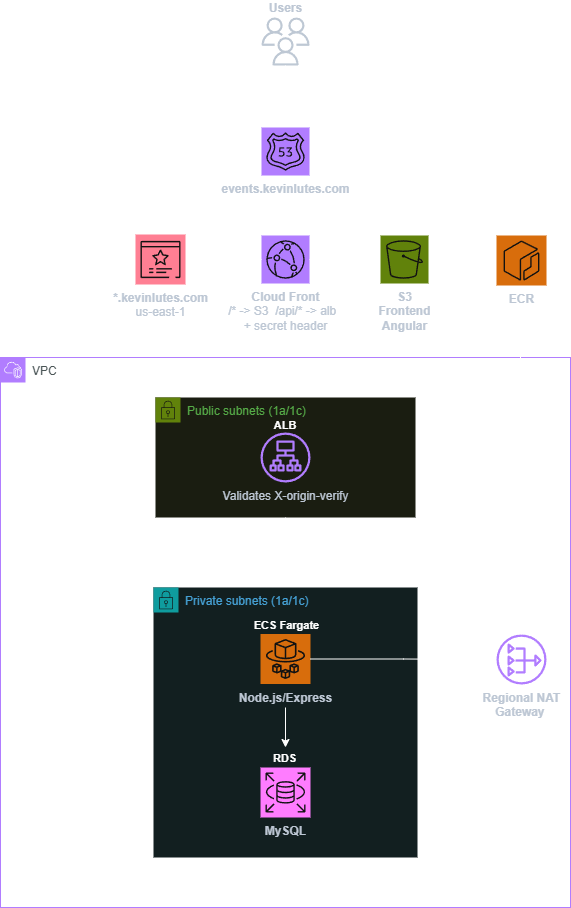
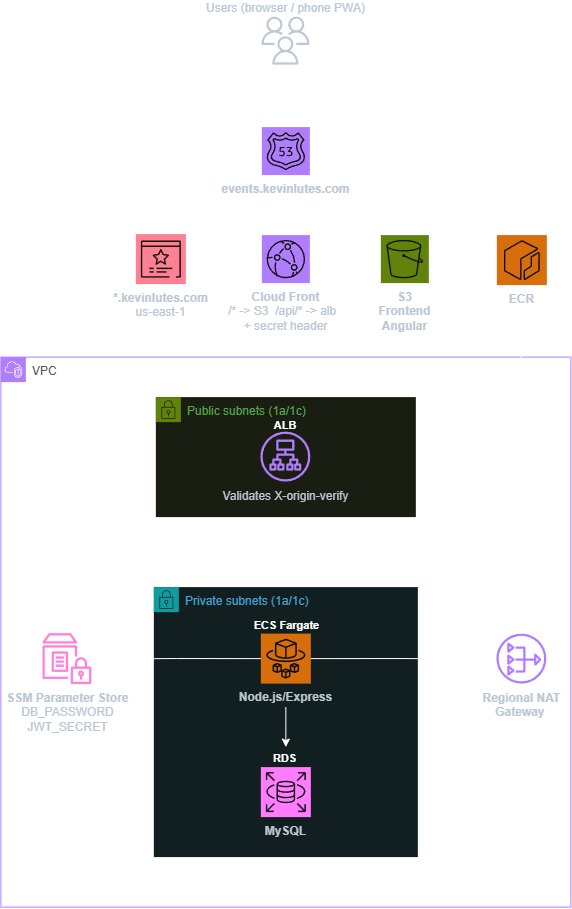
Update README for Part 2: JWT auth, ROI tracking, UI redesign, PWA, security hardening

diff --git a/README.md b/README.md
@@ -3,6 +3,24 @@
 A full-stack application for tracking event tickets and client assignments. It models the kind of client-entertainment ticketing workflow used by companies that manage live event inventory and hospitality at scale.
 
 **Live demo:** https://events.kevinlutes.com
+**Demo login:** `eventtickets` / `password`
+
+---
+
+## 📈 Before → After
+
+The app went through two builds. Part 1 proved out the AWS infrastructure and a basic working create/read/update workflow behind a shared API key. Part 2 rebuilt the application layer into something closer to a real internal SaaS tool — per-user auth, a reporting layer, and a full UI redesign.
+
+| | Part 1: Initial Build | Part 2: Production-Grade SaaS |
+|---|---|---|
+| **UI** | Single-page form, no navigation | Sidebar-navigated app: dashboard, tickets, clients, events, reports, settings |
+| **Auth** | Shared `X-API-Key` header | Per-user JWT login, bcrypt-hashed passwords, role-based authorization |
+| **Data** | Events, clients, tickets | + ROI tracking (spend by client, spend over time, avg ticket value) |
+| **Frontend** | Plain HTML/CSS | Angular Material, responsive (mobile hamburger nav), installable PWA |
+| **Infra security** | RDS unencrypted, single IAM role, plaintext env secrets | RDS encrypted at rest, split IAM roles, secrets in SSM Parameter Store |
+
+![Before: Initial build](screenshots/before-mvp.png)
+![After: SaaS redesign](screenshots/after-dashboard.png)
 
 ---
 
@@ -10,12 +28,13 @@ A full-stack application for tracking event tickets and client assignments. It m
 
 ![Architecture Diagram](screenshots/architecture.png)
 
-- **Frontend:** Angular (standalone components, `@for` control flow), served from S3 via CloudFront
+- **Frontend:** Angular (standalone components, Angular Material), served from S3 via CloudFront, installable as a PWA
 - **Backend:** Node.js + Express REST API, containerized and running on ECS Fargate behind an Application Load Balancer
-- **Database:** MySQL on RDS, in a private subnet with no public access
-- **Networking:** Custom VPC with public/private subnets, NAT Gateway for outbound access from private resources
-- **Security:** CloudFront attaches a secret `X-Origin-Verify` header on every request to the ALB, and the ALB rejects any request without it, preventing traffic from bypassing CloudFront and hitting the load balancer directly. At the application layer, every `/api` route requires an `X-API-Key` header, requests are rate-limited per IP, and CORS is restricted to the live frontend origin
-- **Infrastructure as Code:** Entire stack defined in Terraform (VPC, RDS, ECS, ALB, ECR, S3, CloudFront, ACM, Route 53)
+- **Database:** MySQL on RDS, encrypted at rest, in a private subnet with no public access
+- **Networking:** Custom VPC with public/private subnets. I put RDS and ECS in private subnets with no inbound route from the internet, and added a NAT Gateway purely so the API container can still reach out (npm registry, AWS APIs) without ever being reachable from outside
+- **Security:** CloudFront attaches a secret `X-Origin-Verify` header on every request to the ALB, and the ALB rejects any request without it, preventing traffic from bypassing CloudFront and hitting the load balancer directly. At the application layer, every `/api` route requires a signed JWT issued at login, mutating routes are further restricted by role, requests are rate-limited per IP, and CORS is restricted to the live frontend origin
+- **Secrets:** Database credentials and the JWT signing secret are stored in SSM Parameter Store and resolved into the ECS task at container start, never written into the task definition as plaintext
+- **Infrastructure as Code:** Entire stack defined in Terraform (VPC, RDS, ECS, ALB, ECR, S3, CloudFront, ACM, Route 53, IAM, SSM)
 
 ---
 
@@ -23,11 +42,13 @@ A full-stack application for tracking event tickets and client assignments. It m
 
 | Layer | Technology |
 |---|---|
-| Frontend | Angular, TypeScript |
+| Frontend | Angular, TypeScript, Angular Material |
 | Backend | Node.js, Express |
-| Database | MySQL (Amazon RDS) |
+| Auth | JWT (jsonwebtoken), bcrypt |
+| Database | MySQL (Amazon RDS, encrypted at rest) |
 | Compute | Amazon ECS (Fargate) |
 | CDN / Static hosting | CloudFront, S3 |
+| Secrets | AWS SSM Parameter Store |
 | IaC | Terraform |
 | DNS / TLS | Route 53, ACM |
 
@@ -39,10 +60,27 @@ A full-stack application for tracking event tickets and client assignments. It m
 event-ticket-tracker/
 ├── backend/
 │   ├── index.js
+│   ├── auth.js
+│   ├── db/
+│   │   ├── migrations/
+│   │   └── seed/
+│   ├── scripts/
+│   │   ├── create-user.js
+│   │   ├── migrate.js
+│   │   └── seed.js
 │   ├── package.json
 │   └── Dockerfile
 ├── frontend/
 │   ├── src/
+│   │   └── app/
+│   │       ├── layout/       # sidebar + top nav shell
+│   │       ├── dashboard/    # executive dashboard
+│   │       ├── tickets/      # data table: sort/filter/search/bulk actions
+│   │       ├── clients/      # CRM-style client cards
+│   │       ├── events/       # event list + ticket inventory detail
+│   │       ├── reports/
+│   │       ├── settings/
+│   │       └── login/
 │   └── angular.json
 ├── infra/
 │   ├── versions.tf
@@ -64,17 +102,17 @@ event-ticket-tracker/
 
 **Data Model**
 
-Three related tables: `events` (name, venue, date), `clients` (name, company, email), and `tickets` (references an event and optionally a client, tracks `status` of `available` or `assigned`, and `price`).
+Four related tables: `events` (name, venue, date), `clients` (name, company, email), `tickets` (references an event and optionally a client, tracks `status` of `available` or `assigned`, `price`, `ticket_type`, and `purchased_at`), and `users` (email, bcrypt password hash, name, role).
 
 Ticket assignment is modeled as an **update**, not an insert. Tickets exist as inventory tied to an event, and assigning a client changes an existing ticket's status rather than fabricating a new record. This reflects how ticket assignment actually works in practice: companies hold blocks of tickets and distribute them to clients, they don't create tickets on demand.
 
 **Parameterized SQL Queries**
 
-Every query in the API uses parameterized statements throughout, to prevent SQL injection.
+Every query in the API uses parameterized statements throughout, to prevent SQL injection — including the reporting/aggregation endpoints added in Part 2.
 
 **Private-Subnet-First Infrastructure**
 
-RDS and ECS tasks have no direct internet exposure. Only the ALB and CloudFront are public-facing.
+I designed this so RDS and ECS tasks have no direct internet exposure at all — only the ALB and CloudFront sit in public subnets. Even if someone found the database endpoint, there's no network path to it from outside the VPC; the only way in is through the app itself.
 
 **X-Origin-Verify Pattern**
 
@@ -82,21 +120,51 @@ CloudFront attaches a secret header to every request it forwards to the ALB, and
 
 **Application-Layer Security**
 
-Infrastructure-level verification (X-Origin-Verify) confirms a request came through CloudFront, but it doesn't say anything about who's making the request. Every `/api` route requires a valid `X-API-Key` header, checked in middleware before any route handler runs. `POST /tickets` and `PUT /tickets/:id/assign` also validate their inputs (required fields, a `status` restricted to `available`/`assigned`, and `price` required to be a positive number) rather than trusting the request body outright. CORS is scoped to the live frontend origin instead of allowing any site to call the API from a browser, and all `/api` routes are rate-limited per IP (100 requests / 15 minutes) as a basic abuse guard. This is a shared-secret API key rather than per-user authentication, so it stops unauthenticated and casual abuse, but a natural next step would be per-user JWT auth with a real login flow.
+Infrastructure-level verification (X-Origin-Verify) confirms a request came through CloudFront, but it doesn't say anything about who's making the request. Every `/api` route requires a valid, signed JWT issued at login; mutating routes (creating or assigning tickets) additionally require the `admin` role. `POST /tickets` and `PUT /tickets/:id/assign` also validate their inputs (required fields, a `status` restricted to `available`/`assigned`, and `price` required to be a positive number) rather than trusting the request body outright. CORS is scoped to the live frontend origin instead of allowing any site to call the API from a browser, and all `/api` routes are rate-limited per IP, with a stricter limit on the login endpoint specifically to blunt credential-stuffing attempts.
 
 **ECS Fargate Over EC2**
 
-Fargate removes server maintenance and provides repeatable, container-based deployments, making it a good fit for a stateless API. It's the better fit for this kind of workload going forward, even with EC2 remaining the right call elsewhere.
+I chose Fargate because the API is stateless and I wanted deployments to consist of pushing a new image to ECR and letting ECS replace running tasks automatically, without maintaining EC2 instances, patching an OS, or managing an Auto Scaling Group myself.
 
 ---
 
-## ✅ Validation
+## ✅ App Walkthrough
 
-### Live Dashboard
+### Dashboard
+The landing page after login. Shows total revenue, tickets sold, tickets still available, and average ticket value as KPI cards, a revenue-over-time chart, and a feed of the most recent ticket purchases.
+
 ![Dashboard](screenshots/dashboard.png)
 
-### Ticket Assignments
+### Tickets
+The main workspace for managing inventory. A searchable, filterable, sortable, paginated table of every ticket across every event, with status badges (available/assigned), checkboxes for selecting multiple rows at once, and a bulk "assign to client" action alongside a quick per-row assign.
+
 ![All Tickets](screenshots/tickets-table.png)
+
+### Clients
+A CRM-style card view of every client, showing their company, ticket count, and lifetime spend, sorted highest-spend first, with a search box to filter by name/company/email.
+
+![Clients](screenshots/clients.png)
+
+### Events
+A grid of upcoming events with an inventory bar showing sold vs. available tickets at a glance. Clicking into an event shows a donut chart of sold/available, total revenue from that event, and the full ticket list for it.
+
+![Events](screenshots/events.png)
+
+### Reports
+A dedicated reporting page: total revenue, average ticket value, and a count of clients who've bought tickets, a monthly revenue chart, and a full spend-by-client breakdown table.
+
+![Reports](screenshots/reports.png)
+
+### Settings
+Shows the logged-in user's name, email, and role, with a sign-out button.
+
+![Settings](screenshots/settings.png)
+
+### Mobile
+The whole app is responsive — the sidebar collapses into a hamburger menu overlay on small screens, and it installs to a phone's home screen as a standalone app (PWA).
+
+![Mobile dashboard](screenshots/mobile-dashboard.png)
+![Mobile navigation menu](screenshots/mobile-menu.png)
 
 ### Security in Action
 The ALB rejects any request that doesn't come through CloudFront's secret header check:
@@ -116,7 +184,7 @@ This project expanded my experience beyond cloud infrastructure into application
 - Fronting both a static frontend and a private backend with a single CloudFront distribution, using path-based routing to send traffic to different origins
 - Implementing the X-Origin-Verify pattern to prevent an ALB's public DNS name from becoming a security bypass
 - Getting a shell into a running ECS Fargate task with ECS Exec, and why that's the correct way to reach a properly private RDS instance from outside its VPC
-- The difference between infrastructure-layer verification and application-layer authentication. X-Origin-Verify proves a request came through CloudFront, but proving *who* is calling the API is a separate concern that needs its own layer (API key middleware, input validation, and per-IP rate limiting)
+- The difference between infrastructure-layer verification and application-layer authentication. X-Origin-Verify proves a request came through CloudFront, but proving *who* is calling the API is a separate concern that needs its own layer
 
 ---
 
@@ -134,14 +202,22 @@ If a client reported tickets not appearing, my first steps would be checking Clo
 
 ---
 
-## 🚀 Future Improvements
+## 🚀 Part 2: From Initial Build to Production-Grade SaaS
 
-- Replace the shared API key with per-user JWT authentication (login flow, hashed credentials, token-based sessions)
-- Add real-time notifications when a ticket is assigned
-- Tighten API validation further (e.g. confirming `event_id`/`client_id` actually exist before inserting a ticket)
+The first pass proved out the infrastructure and a working create/read/update flow behind a shared API key. For Part 2, I used Claude Code as an agentic pair to plan and implement a round of new features and harden the security of what was already deployed — a deliberate way to get hands-on with agentic AI-assisted development itself, on top of learning the subject matter. At a high level:
+
+- **Per-user login** replacing the shared API key — a real `users` table, hashed passwords, and JWT-based sessions instead of one shared secret
+- **ROI reporting** — spend by client, spend over time, and average ticket value, surfaced as KPI cards and a chart on the dashboard
+- **A full UI redesign** using Angular Material — sidebar navigation, a proper dashboard, a sortable/filterable tickets table with bulk actions, a client roster, and per-event ticket inventory views
+- **PWA support** — installable to a phone's home screen with an app icon and offline caching
+- **A security hardening pass** — encrypting the database, moving secrets out of plaintext config and into AWS's secret store, and tightening IAM permissions and authentication checks
+
+I intentionally used Claude Code as an agentic development partner to accelerate implementation while taking time to understand each architectural decision and security improvement before adopting it. This project was as much about learning how to collaborate effectively with AI as it was about building the application itself.
 
 ---
 
 ## 🤖 A Note on AI Assistance
 
-I used Claude throughout this project as a learning and debugging partner while working through Angular concepts and troubleshooting issues surfaced in CloudWatch logs and ECS service events. The architecture decisions, including the VPC layout, the X-Origin-Verify security pattern, and modeling ticket assignment as an update rather than an insert, were mine, and I worked through the reasoning behind each piece of infrastructure as it went in, rather than treating any of it as a black box.
+**Part 1** was built with Claude as a learning and debugging partner while I worked through Angular concepts and troubleshooting issues surfaced in CloudWatch logs and ECS service events. The architecture decisions, including the VPC layout, the X-Origin-Verify security pattern, and modeling ticket assignment as an update rather than an insert, were mine, and I worked through the reasoning behind each piece of infrastructure as it went in, rather than treating any of it as a black box.
+
+**Part 2** was a deliberate shift in how I used AI on this project: I worked with Claude Code as an agentic collaborator to plan and implement the new features and the security hardening pass, including having it run Terraform and AWS CLI commands directly against my infrastructure under my direction. The goal was to get fluent with agentic AI-assisted development as a skill in its own right, not just to ship features faster. JWT authentication was new to me, so I used this project as an opportunity to learn it properly. I reviewed the generated code, tested the complete authentication flow, and made sure I understood how the pieces fit together before adopting the implementation.
